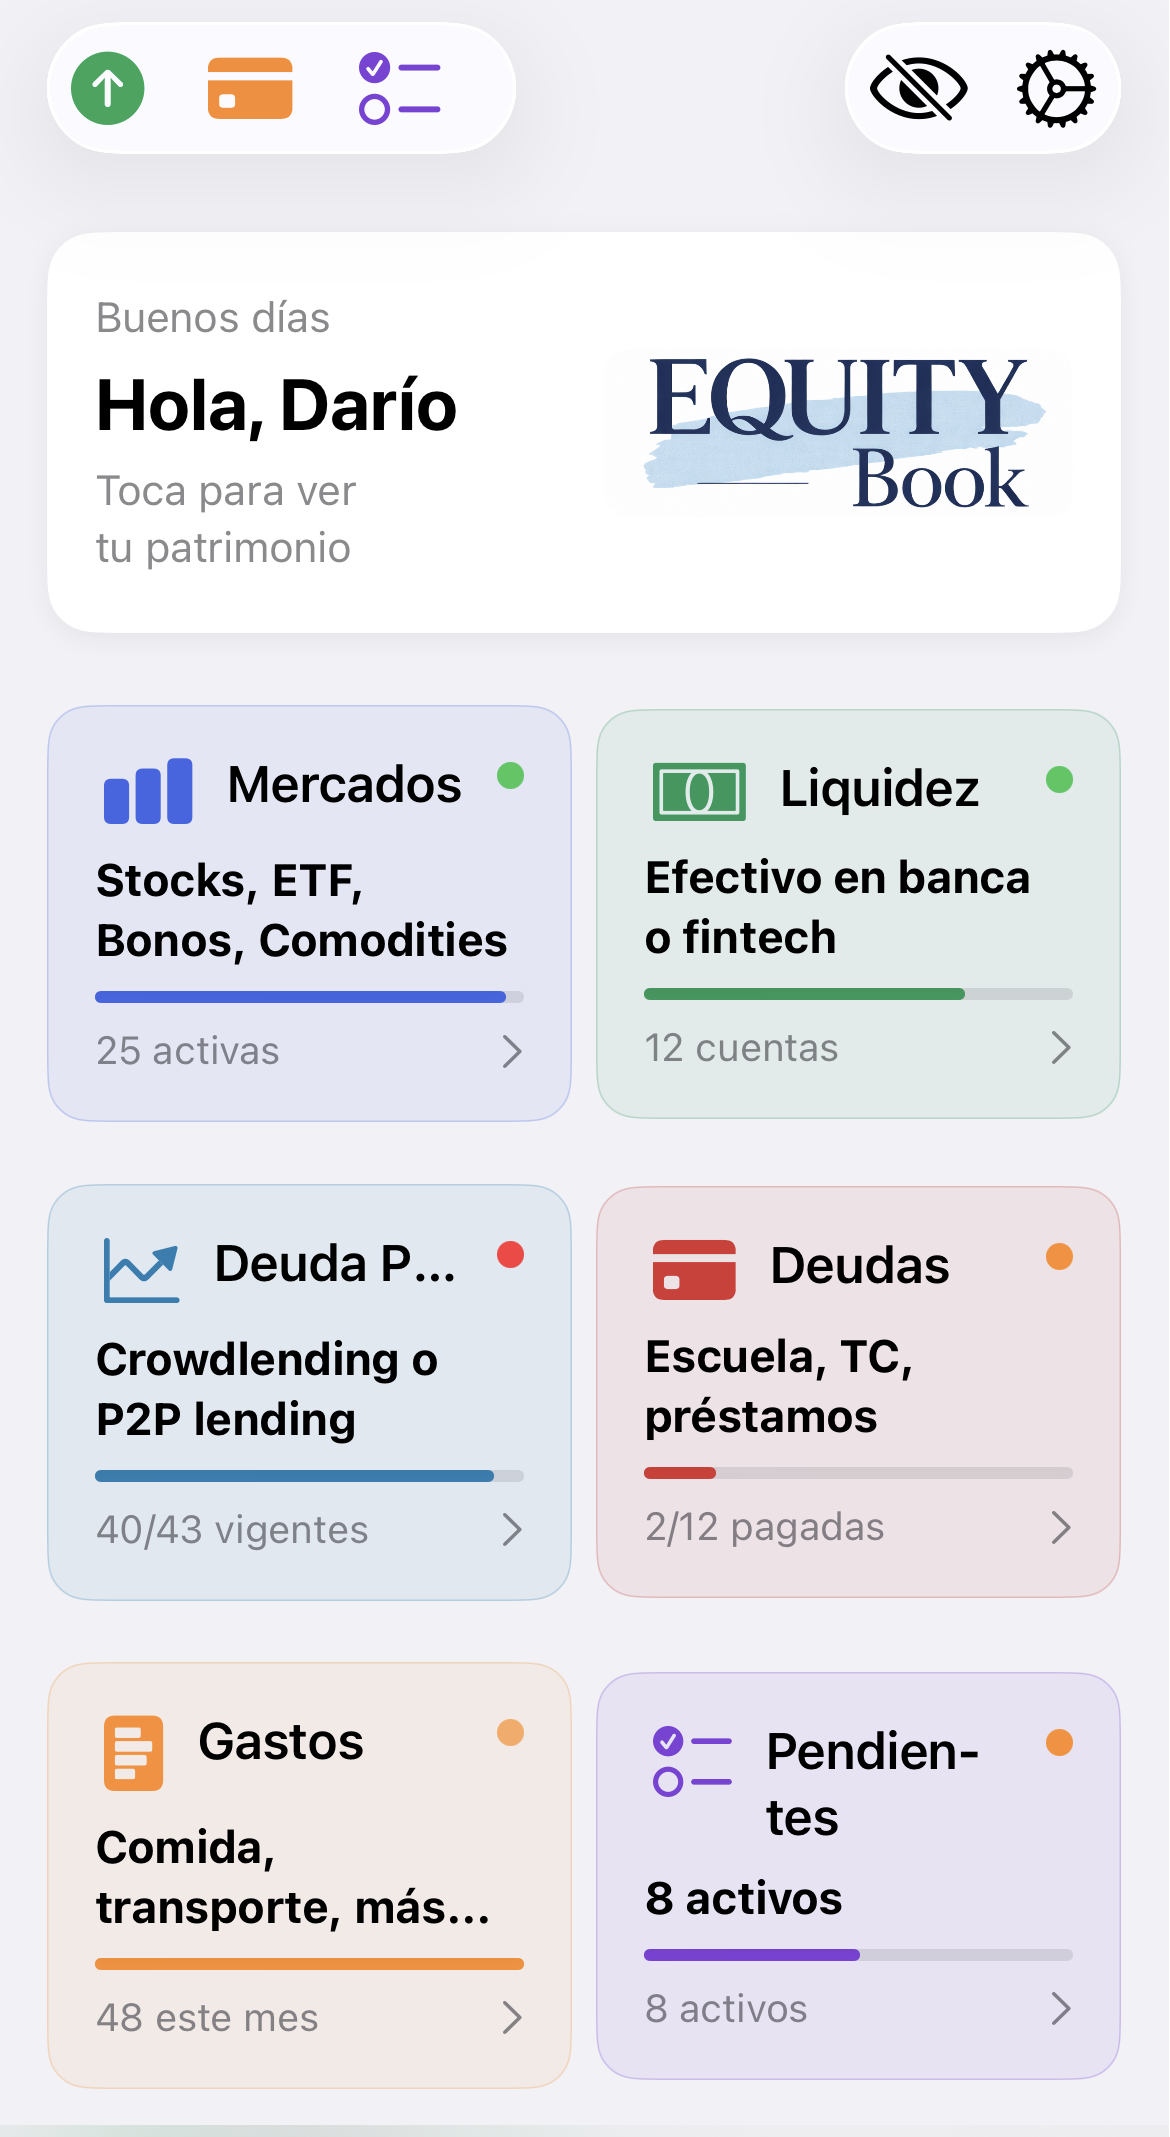
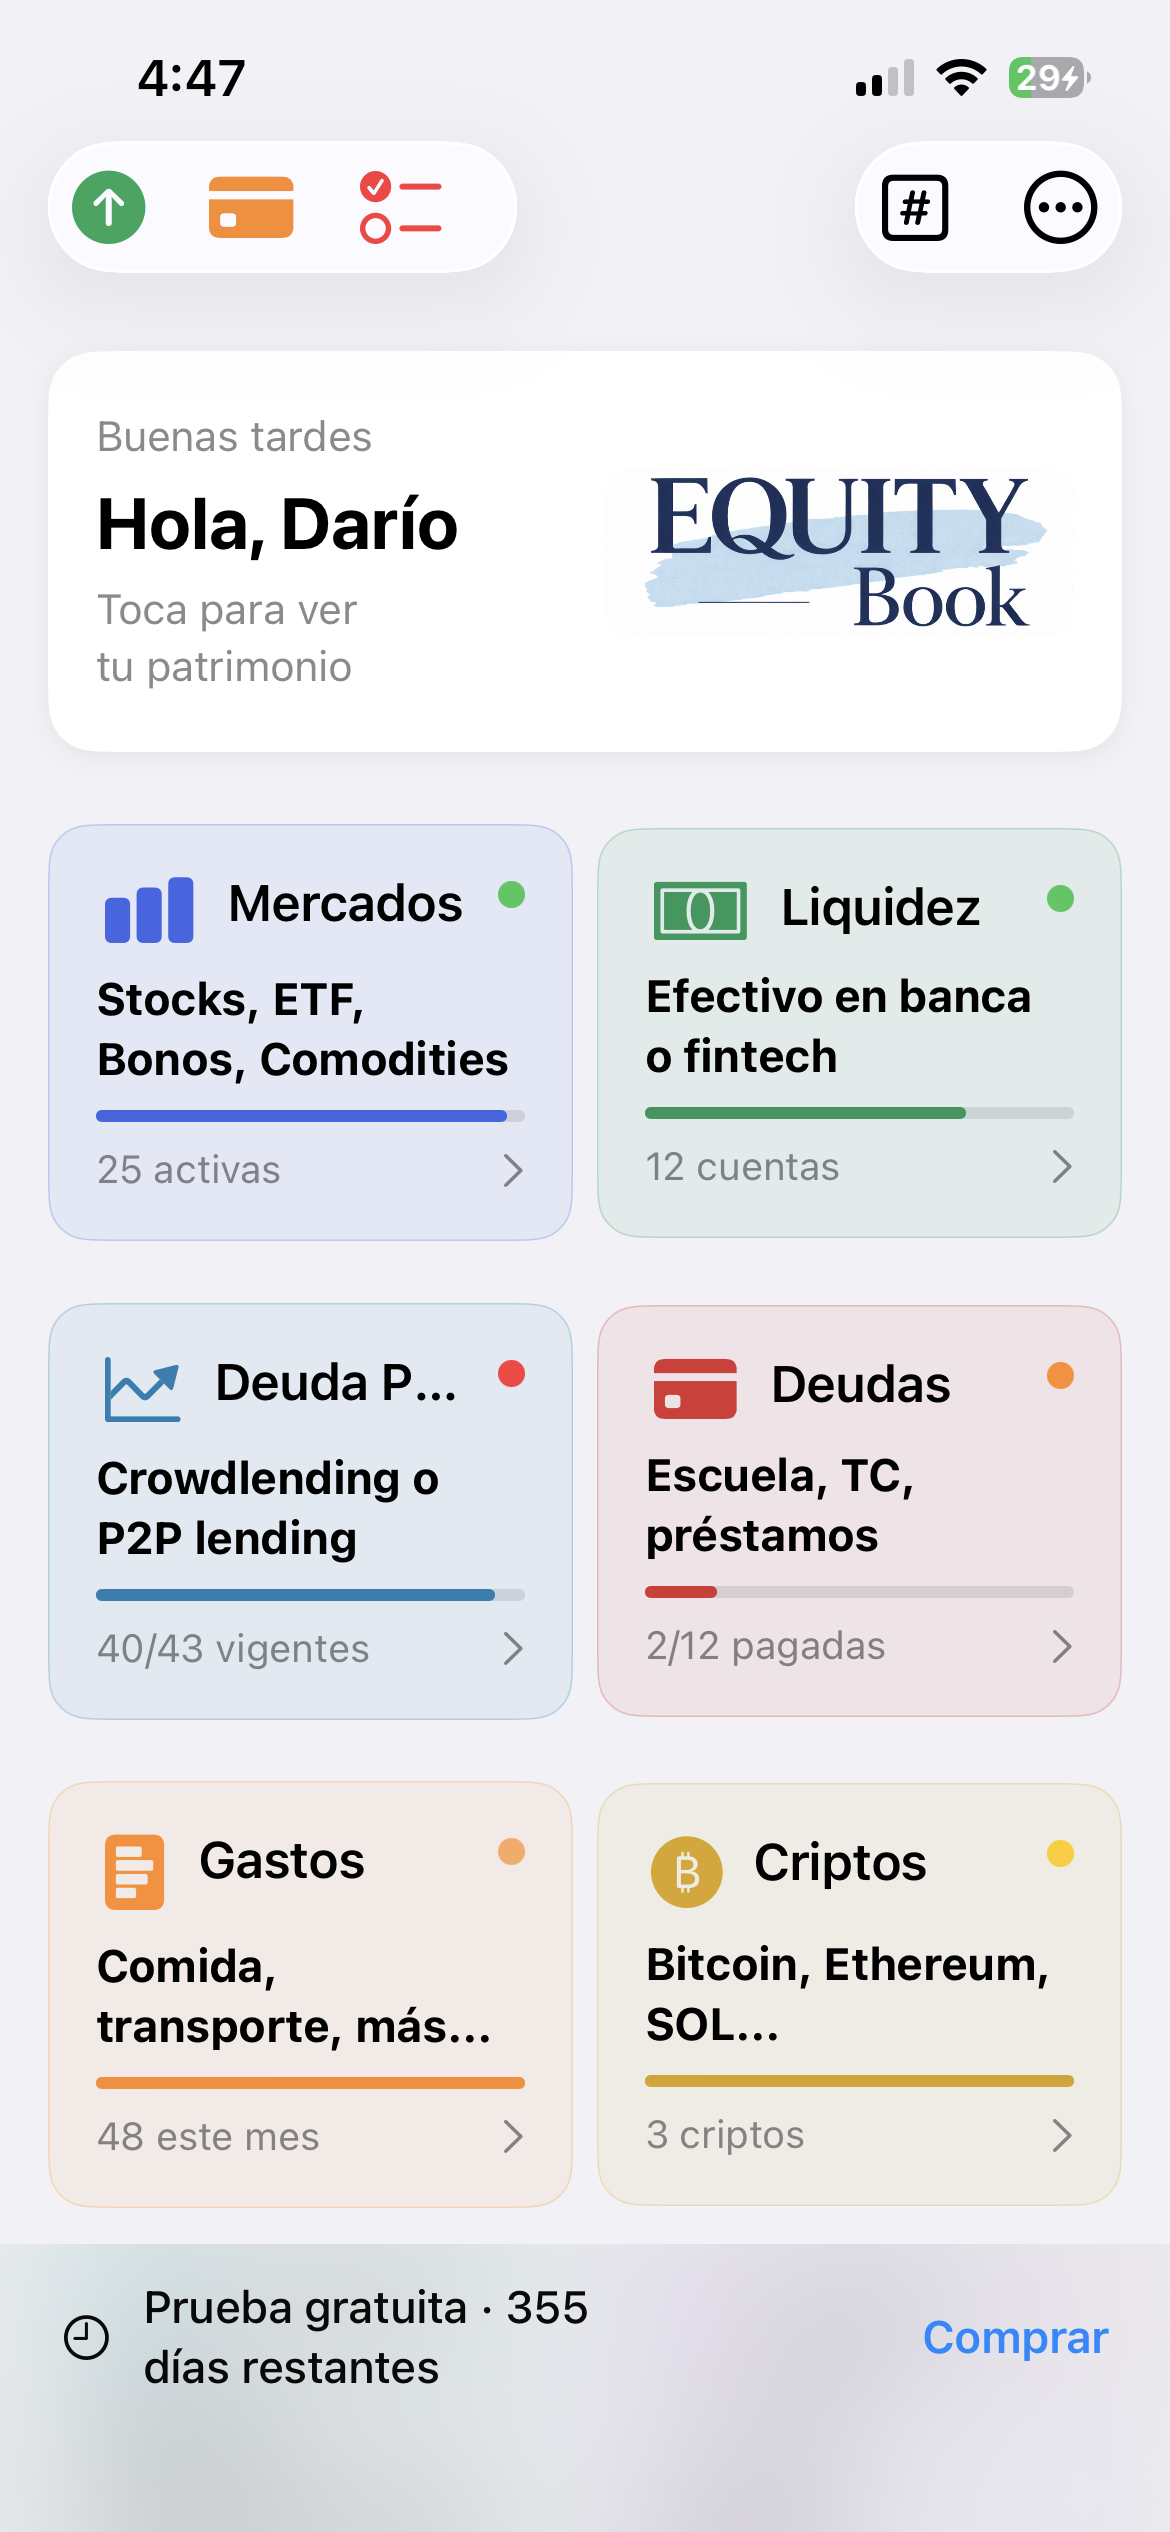
feat: actualiza HomeView screenshots y agrega calculadora RPN
- Reemplaza imágenes de HomeView con nueva UI (calculadora en toolbar,
  ojo y engrane movidos al menú ···)
- Agrega screenshot de calculadora RPN con descripción
- Actualiza sección "Barra superior" con 4 botones correctos y bloque
  explicativo del menú ···
- Elimina sección de capturas pendientes (ya completadas)

diff --git a/manual.html b/manual.html
@@ -1092,6 +1092,9 @@
 <!-- ── Top bar explainer ─────────────────────────────────────── -->
 <div class="topbar-section">
     <h2>Barra superior — accesos rápidos</h2>
+    <p style="color:#7777aa; font-size:0.9rem; text-align:center; margin-bottom:28px; max-width:560px; margin-left:auto; margin-right:auto;">
+        Cuatro atajos siempre visibles en la barra superior — más modo privacidad, configuración y calculadora accesibles con un toque.
+    </p>
     <div class="topbar-grid">
         <div class="tb-card">
             <div class="tb-icon">🟢↑</div>
@@ -1109,36 +1112,39 @@
             <p>Lista de cosas por hacer con fecha objetivo. Ideal para dar seguimiento a pendientes de proyectos, compromisos y trámites que de otro modo se quedan en un papelito o se olvidan.</p>
         </div>
         <div class="tb-card">
-            <div class="tb-icon">👁</div>
-            <h4>Modo privacidad</h4>
-            <p>Oculta todos los montos con un toque — ideal para usar la app en público.</p>
+            <div class="tb-icon">🧮</div>
+            <h4>Calculadora RPN</h4>
+            <p>Calculadora de notación polaca inversa integrada directamente en la app. Realiza cálculos financieros sin salir de EquityBook y copia el resultado al portapapeles con un toque.</p>
         </div>
-        <div class="tb-card">
-            <div class="tb-icon">⚙</div>
-            <h4>Configuración</h4>
-            <p>Ajusta el tipo de cambio USD/MXN, nombre de usuario y preferencias generales.</p>
+    </div>
+
+    <!-- Calculadora screenshot -->
+    <div style="margin-top:36px; display:flex; flex-direction:column; align-items:center; gap:16px;">
+        <img
+            src="img/calculadora-rpn.png"
+            alt="Calculadora RPN integrada en EquityBook"
+            style="width:220px; border-radius:36px; box-shadow: 0 0 0 2px #3a3a3c, 0 30px 60px rgba(0,0,0,.8), 0 0 80px rgba(124,77,255,.15);"
+            loading="lazy"
+        >
+        <p style="font-size:0.8rem; color:#555577; text-align:center; max-width:320px;">
+            🧮 Calculadora RPN — el resultado se copia al portapapeles directamente
+        </p>
+    </div>
+
+    <!-- Menú ··· -->
+    <div style="margin-top:36px; background:rgba(255,255,255,0.04); border:1px solid rgba(255,255,255,0.08); border-radius:16px; padding:20px 24px; display:flex; gap:16px; align-items:flex-start; max-width:560px; margin-left:auto; margin-right:auto;">
+        <div style="font-size:1.6rem; line-height:1;">···</div>
+        <div>
+            <div style="font-weight:700; color:#f0f0f5; font-size:0.95rem; margin-bottom:6px;">Menú de tres puntos</div>
+            <p style="font-size:0.85rem; color:#7777aa; line-height:1.7;">
+                El botón <strong style="color:#c0c0d8;">···</strong> en la esquina superior derecha agrupa el
+                <strong style="color:#c0c0d8;">👁 Modo privacidad</strong> (oculta todos los montos con un toque, ideal para usar la app en público)
+                y la <strong style="color:#c0c0d8;">⚙ Configuración</strong> (tipo de cambio, nombre de perfil, módulos visibles y respaldo de datos).
+            </p>
         </div>
     </div>
 </div>
 
-<!-- ── Screenshots needed ────────────────────────────────────── -->
-<div class="screenshots-note">
-    <div class="screenshots-note-inner">
-        <h3>📸 Capturas de pantalla recomendadas para la siguiente etapa</h3>
-        <ul>
-            <li>HomeView con modo privacidad activado (montos ocultos)</li>
-            <li>HomeView con patrimonio visible — números reales del demo</li>
-            <li>Mercados — lista de posiciones con rendimientos en verde/rojo</li>
-            <li>Mercados — detalle de un ticker con historial de transacciones</li>
-            <li>Liquidez — lista de cuentas con rendimiento diario calculado</li>
-            <li>Deuda Privada — lista de instrumentos con estatus vigente/vencido</li>
-            <li>Deudas — lista ordenada por urgencia con barra de días restantes</li>
-            <li>Gastos — vista mensual con categorías y totales</li>
-            <li>Pendientes — lista con tareas activas y completadas</li>
-            <li>Configuración — tipo de cambio y preferencias</li>
-        </ul>
-    </div>
-</div>
 
 <!-- ── Libertad financiera ────────────────────────────────────── -->
 <div style="max-width:760px; margin:0 auto 0; padding:64px 24px;">
